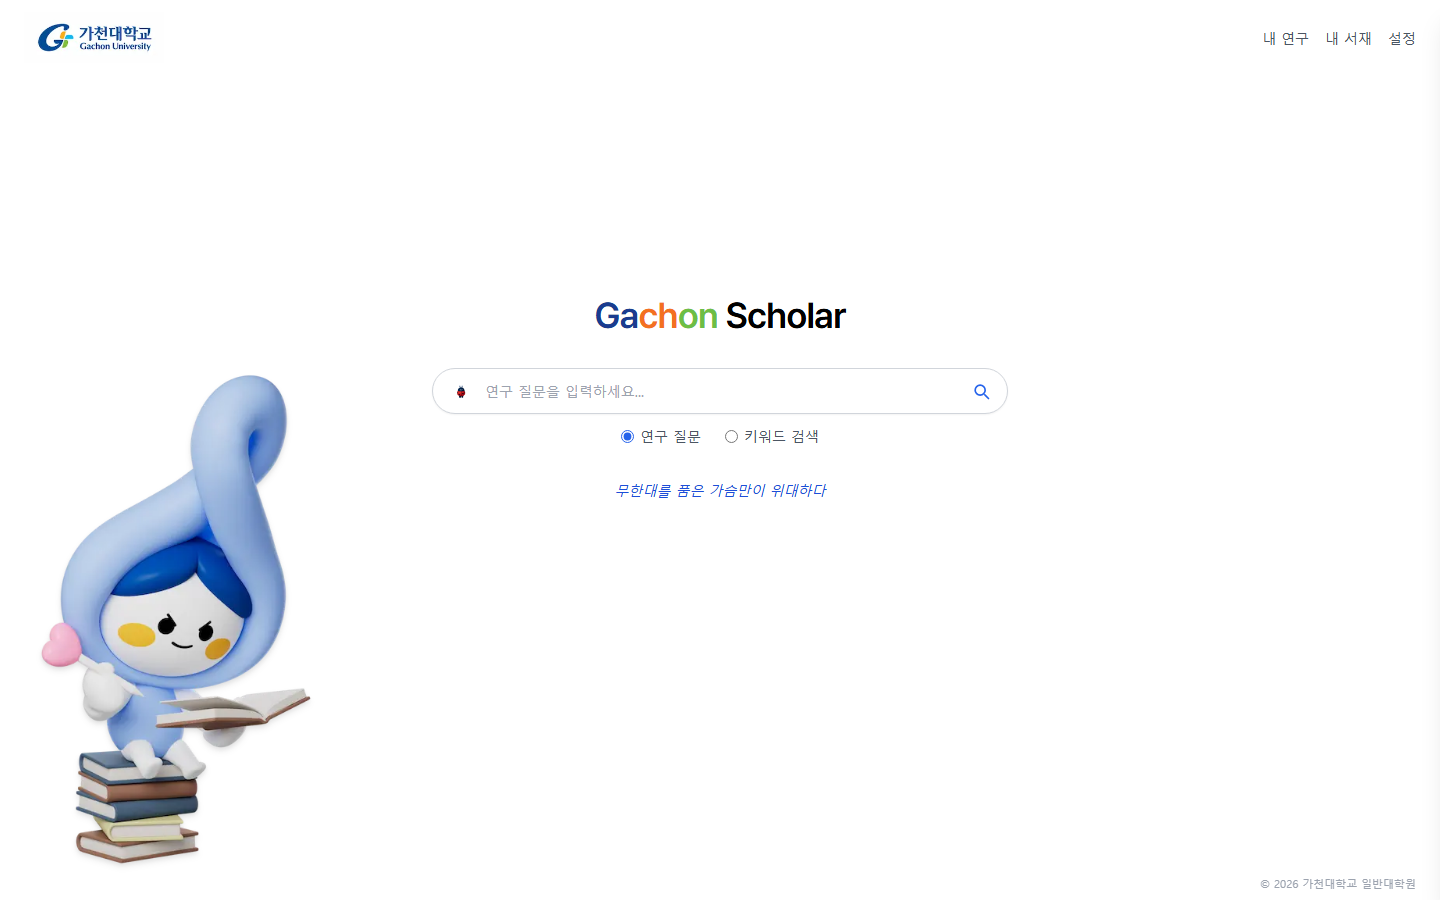
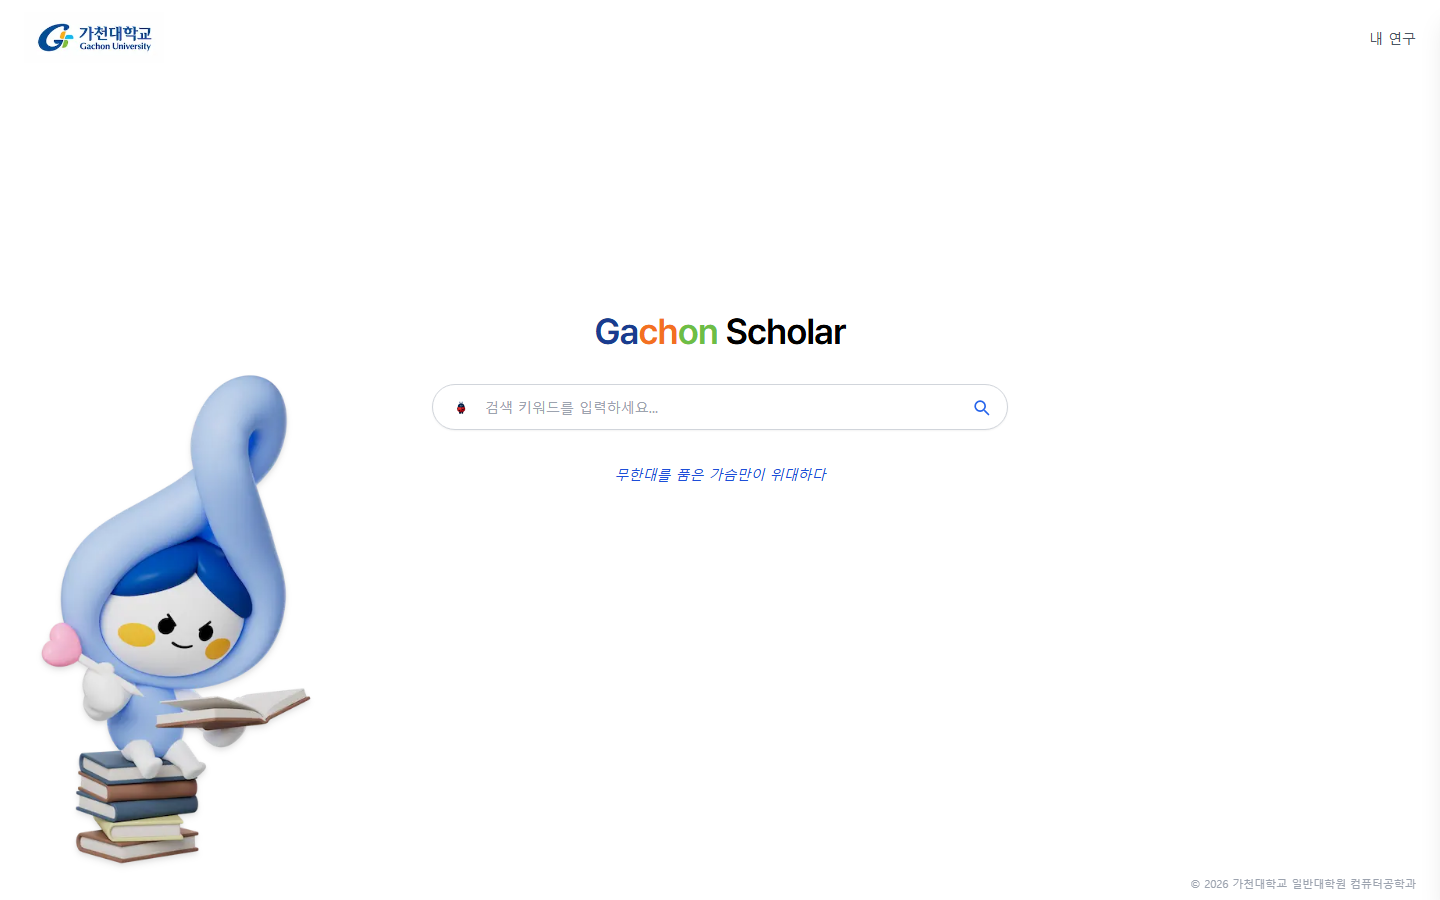
feat: copyright 컴퓨터공학과 추가, README 스크린샷 갱신

diff --git a/frontend/src/app/layout.tsx b/frontend/src/app/layout.tsx
@@ -28,7 +28,7 @@ export default function RootLayout({ children }: { children: React.ReactNode }) 
         <main>{children}</main>
         <Mascot />
         <footer className="fixed bottom-0 left-0 right-0 flex justify-end px-6 py-2 text-[11px] text-gray-400">
-          © {new Date().getFullYear()} 가천대학교 일반대학원
+          © {new Date().getFullYear()} 가천대학교 일반대학원 컴퓨터공학과
         </footer>
       </body>
     </html>
